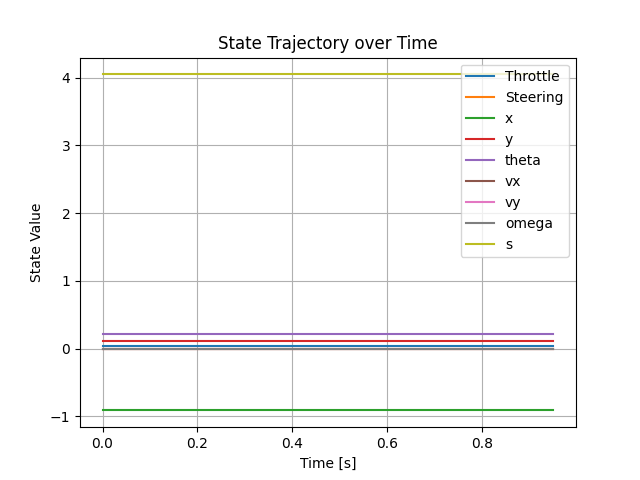
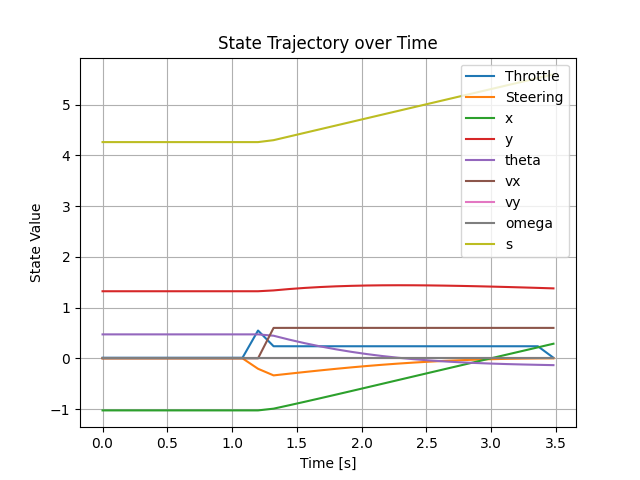
tuning parameters

diff --git a/solver_generator/solver_model.py b/solver_generator/solver_model.py
@@ -146,8 +146,8 @@ class BicycleModel2ndOrder(DynamicsModel):
         self.inputs = ["throttle", "steering"] #, "slack"]
         self.states = ["x", "y", "theta", "vx", "vy", "w", "s"]
 
-        self.lower_bound = [0.0, -1.0, -5.1, -1000.0, -1000.0, -1000.0, -1000.0, -1000.0, -1000.0, 0.0] # [u, x]
-        self.upper_bound = [0.6, 1.0, 1000.0, 1000.0, 1000.0, 1000.0, 1000.0, 1000.0, 1000.0, 1000.0] # [u, x]
+        self.lower_bound = [0.0, -1.0, -5.1, -10.0, -1000.0, -1000.0, -1000.0, -1000.0, -1000.0, 0.0] # [u, x]
+        self.upper_bound = [1.0, 1.0, 1000.0, 10.0, 1000.0, 1000.0, 1000.0, 1000.0, 1000.0, 1000.0] # [u, x]
     
     def model_parameters(self):
         lr_reference = 0.115  #0.11650    # (measureing it wit a tape measure it's 0.1150) reference point location taken by the vicon system measured from the rear wheel

diff --git a/dmpc_planner/scripts/path_generator.py b/dmpc_planner/scripts/path_generator.py
@@ -48,12 +48,12 @@ def raw_track(choice='sinus'):
         Checkpoints_y = np.zeros(n_checkpoints)
     
     elif choice == 'sinus':
-        # Straight line segment from x = -5 to x = -4 at y = 0
+        # Straight line segment from x = -5 at y = 0
         Checkpoints_x_straight = np.linspace(-5, -2, 4)
         Checkpoints_y_straight = np.zeros(4)
         
-        # Sinusoidal segment from x = -4 to x = 8 completing one period
-        Checkpoints_x_sinus = np.linspace(-2, 12, n_checkpoints-4)
+        # Sinusoidal segment to x = 20 completing one period
+        Checkpoints_x_sinus = np.linspace(-2, 14, n_checkpoints-4)
         Checkpoints_y_sinus = 1 * np.sin(2 * np.pi * (Checkpoints_x_sinus + 3) / 14)  # One period from -3 to 10
         
         # Concatenate the two segments

diff --git a/dmpc_planner/scripts/jetracersimulator_mpc.py b/dmpc_planner/scripts/jetracersimulator_mpc.py
@@ -238,8 +238,8 @@ class ROSMPCPlanner:
         
         self.publish_throttle(output, self._mpc_feasible)
         self.publish_steering(output, self._mpc_feasible)
-        self.publish_robot_state()
         self.visualize()
+        self.publish_robot_state()
 
         # if 's' in output:
         #     self._state[6] = output["s"]
@@ -558,7 +558,7 @@ class ROSMPCPlanner:
             if self._spline_fitter._closest_s is not None:
                 cube = self._debug_visuals_pub.get_cube()
                 cube.set_color(5)
-                cube.set_scale(0.3, 0.3, 0.3)
+                cube.set_scale(0.5, 0.5, 0.5)
                 pose = Pose()
                 pose.position.x = self._spline_fitter._closest_x
                 pose.position.y = self._spline_fitter._closest_y
